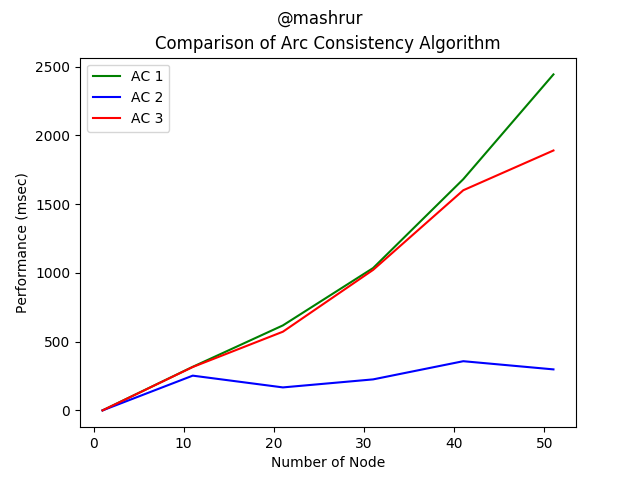
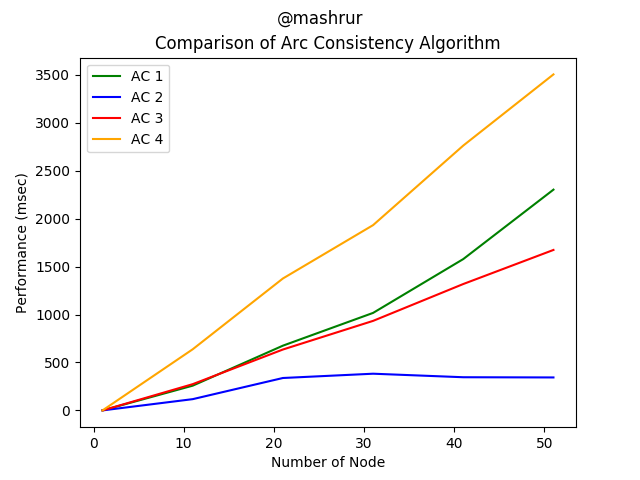
AC-4 Implemented

diff --git a/main.py b/main.py
@@ -3,6 +3,7 @@ import networkx as nw
 import AC_1 as ac1
 import AC_2 as ac2
 import AC_3 as ac3
+import AC_4 as ac4
 import time
 import matplotlib.pyplot as plt
 from copy import deepcopy
@@ -17,6 +18,10 @@ def executeAC3(node, edge, domainSize, g, constraints, domain):
     ac3.AC3(g, constraints, domain, node, edge, domainSize)
     return ((time.time() - start_time) * 1000)
 
+def executeAC4(node, edge, domainSize, g, constraints, domain):
+    start_time = time.time()
+    ac4.AC4(g, constraints, domain, node, edge, domainSize)
+    return ((time.time() - start_time) * 1000)
 
 def executeAC1(node, edge, domainSize, g, constraints, domain):
     start_time = time.time()
@@ -56,15 +61,19 @@ def visualize_nodes():
     yAc2 = []
     xAc3 = []
     yAc3 = []
+    xAc4 = []
+    yAc4 = []
 
     for node in range(1, 60, 10):
         print(node)
         xAc1.append(node)
         xAc2.append(node)
         xAc3.append(node)
+        xAc4.append(node)
         timeAc1 = 0
         timeAc2 = 0
         timeAc3 = 0
+        timeAc4 = 0
 
 
         for i in range(10):
@@ -77,18 +86,22 @@ def visualize_nodes():
             timeAc1 += executeAC1(node, edge, domainSize, deepcopy(g), deepcopy(constraints), deepcopy(domain))
             timeAc2 += executeAC2(node, edge, domainSize, deepcopy(g), deepcopy(constraints), deepcopy(domain))
             timeAc3 += executeAC3(node, edge, domainSize, deepcopy(g), deepcopy(constraints), deepcopy(domain))
+            timeAc4 += executeAC4(node, edge, domainSize, deepcopy(g), deepcopy(constraints), deepcopy(domain))
 
         timeAc1 /= 10
         timeAc2 /= 10
         timeAc3 /= 10
+        timeAc4 /= 10
         yAc1.append(timeAc1)
         yAc2.append(timeAc2)
         yAc3.append(timeAc3)
+        yAc4.append(timeAc4)
 
 
     plt.plot(xAc1, yAc1, color='g', label='AC 1')
     plt.plot(xAc2, yAc2, color='b', label='AC 2')
     plt.plot(xAc3, yAc3, color='r', label='AC 3')
+    plt.plot(xAc4, yAc4, color='orange', label='AC 4')
     plt.xlabel('Number of Node')
     plt.ylabel('Performance (msec)')
     plt.title('Comparison of Arc Consistency Algorithm')
@@ -104,18 +117,22 @@ def visualize_edge():
     yAc2 = []
     xAc3 = []
     yAc3 = []
+    xAc4 = []
+    yAc4 = []
 
     for edge in range(10, 51, 10):
+        print(edge)
         xAc1.append(edge)
         xAc2.append(edge)
         xAc3.append(edge)
+        xAc4.append(edge)
 
         timeAc1 = 0
         timeAc2 = 0
         timeAc3 = 0
+        timeAc4 = 0
         domainSize = 100
         node = 10
-        print(edge)
         constraints = {}
         domain = [[0 for x in range(domainSize)] for y in range(node)]  # node x domainSize size list
 
@@ -132,15 +149,18 @@ def visualize_edge():
         timeAc1 += executeAC1(node, edge, domainSize, deepcopy(g), deepcopy(constraints), deepcopy(domain))
         timeAc2 += executeAC2(node, edge, domainSize, deepcopy(g), deepcopy(constraints), deepcopy(domain))
         timeAc3 += executeAC3(node, edge, domainSize, deepcopy(g), deepcopy(constraints), deepcopy(domain))
+        timeAc4 += executeAC4(node, edge, domainSize, deepcopy(g), deepcopy(constraints), deepcopy(domain))
 
         yAc1.append(timeAc1)
         yAc2.append(timeAc2)
         yAc3.append(timeAc3)
+        yAc4.append(timeAc4)
 
 
     plt.plot(xAc1, yAc1, color='g', label='AC 1')
     plt.plot(xAc2, yAc2, color='b', label='AC 2')
     plt.plot(xAc3, yAc3, color='r', label='AC 3')
+    plt.plot(xAc4, yAc4, color='orange', label='AC 4')
     plt.xlabel('Number of Edge')
     plt.ylabel('Performance (msec)')
     plt.title('Comparison of Arc Consistency Algorithm')
@@ -150,7 +170,6 @@ def visualize_edge():
     plt.show()
 
 if __name__ == '__main__':
-    visualize_nodes()
-    #visualize_edge()
-    #print(executeAC2(30, 100, 100))
+    #visualize_nodes()
+    visualize_edge()
 

diff --git a/AC_4.py b/AC_4.py
@@ -1,0 +1,96 @@
+import queue
+import constraints as cons
+from copy import deepcopy
+
+def revise(xi, xj, constraint, domain):
+    revised = False
+    temp = []
+    for i in domain[xi]:
+        temp.append(i)
+
+    for x in temp:
+        single = False
+        for y in domain[xj]:
+            if(cons.constraints.satisfy(x, y, constraint) == True):
+                single = True
+
+        if(single == False):
+            domain[xi].remove(x)
+            revised = True
+        if(len(domain[xi]) == 0):
+            break
+
+    return revised
+
+def solutionExists(domain):
+    for i in range(len(domain)):
+        if(len(domain[i]) == 0):
+            return False
+
+    return True
+
+def AC4(g, constraints, domain, node, edge, domainSize):
+    q = queue.Queue()
+    s = {}
+    counter = {}
+    global i, j
+
+    for i in range(len(domain)):
+        for j in domain[i]:
+            s[(i, j)] = []
+            for k in range(node):
+                counter[(i, j, k)] = 0
+
+    arc = []
+    for i in g.edges:
+        arc.append(i)
+
+    for i in g.edges:
+        arc.append((i[1], i[0]))
+
+    for i in arc:
+        vi = i[0]
+        vj = i[1]
+        temp = []
+        for i in domain[vi]:
+            temp.append(i)
+
+
+        for ai in temp:
+            for aj in domain[vj]:
+                if(cons.satisfy(ai, aj, constraints[(vi, vj)]) == True):
+                    counter[(vi, ai, vj)] += 1
+                    s[(vj, aj)].append((vi, ai))
+
+            if (counter[(vi, ai, vj)] == 0):
+                q.put((vi, ai))
+                domain[vi].remove(ai)
+            if(len(domain[vi]) == 0):
+                return False
+
+
+    while q.empty() is False:
+        top = q.get()
+        vj = top[0]
+        aj = top[1]
+
+        for k in s[top]:
+            belongsTo = False
+            vi = k[0]
+            ai = k[1]
+
+            if(len(domain[vi]) == 0):
+                return False
+
+            for i in domain[vi]:
+                if(i == ai):
+                    belongsTo = True
+                    break
+            if(belongsTo == True):
+                counter[(vi, ai, vj)] -= 1
+                if(counter[(vi, ai, vj)] == 0):
+                    q.put((vi, ai))
+                    domain[vi].remove(ai)
+
+
+    return True

diff --git a/temp.py b/temp.py
@@ -4,6 +4,7 @@ import networkx as nw
 import AC_1 as ac1
 import AC_2 as ac2
 import AC_3 as ac3
+import AC_4 as ac4
 
 lim = 11
 
@@ -38,6 +39,6 @@ if __name__ == '__main__':
     constraints[(2, 1)] = 4+lim
     constraints[(2, 0)] = 6+lim
 
-    print(ac2.AC2(g, constraints, domain, 3, 3, 3))
+    print(ac4.AC4(g, constraints, domain, 3, 3, 3))
     print(domain)
 
